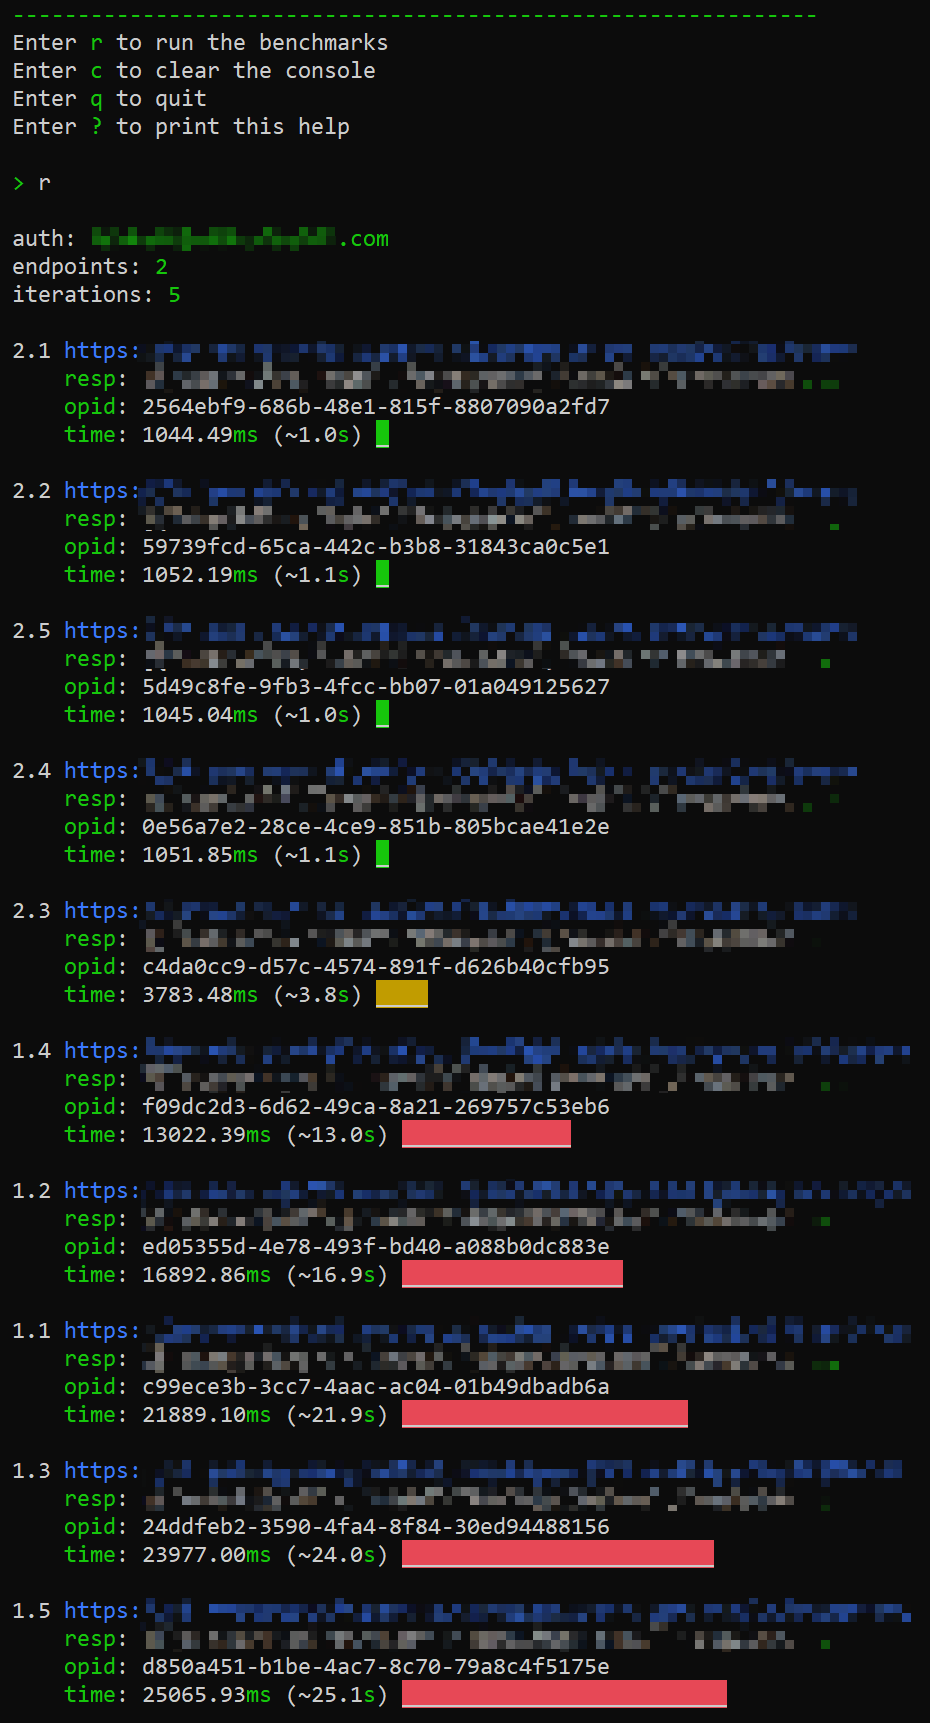
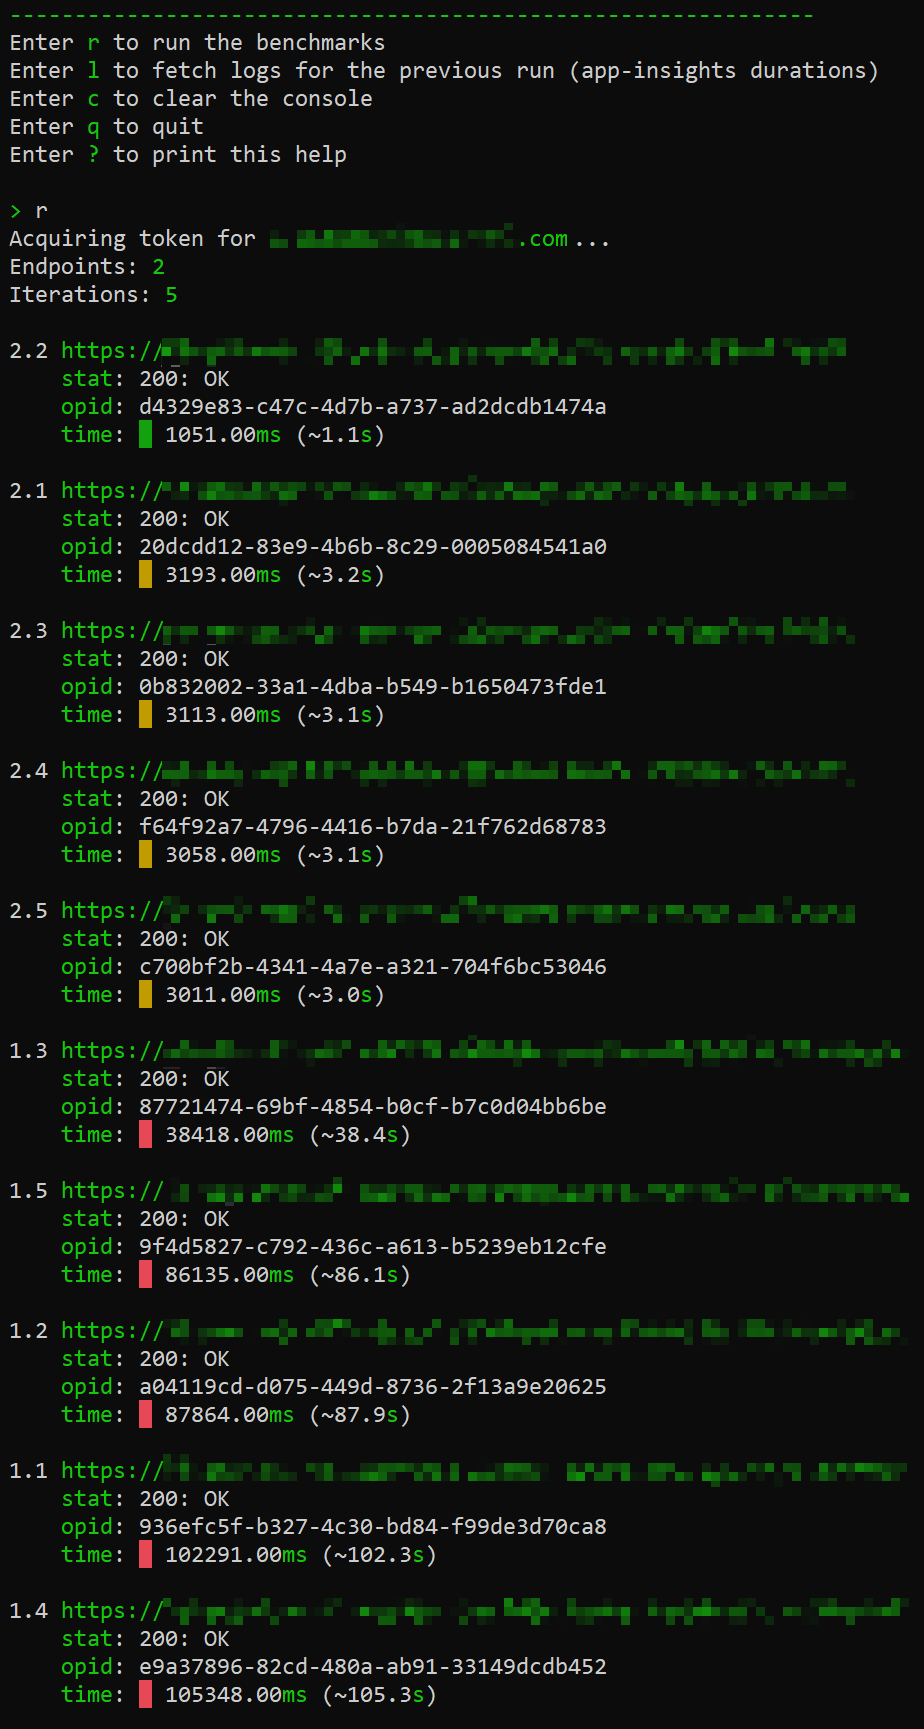
Tuple to typed-Record

diff --git a/Perfx/Services/PerfRunner.cs b/Perfx/Services/PerfRunner.cs
@@ -42,54 +42,42 @@
             this.jsonSerializer = jsonSerializer;
         }
 
-        public async Task<List<(string traceId, double duration)>> Execute()
+        public async Task<List<Record>> Execute()
         {
             ColorConsole.WriteLine("Endpoints: ", settings.Endpoints.Count().ToString().Green());
             ColorConsole.WriteLine("Iterations: ", settings.Iterations.ToString().Green(), "\n");
 
             var endpointTasks = settings.Endpoints.Select((ep, i) => Execute(ep, i + 1, settings.Iterations));
             var results = await Task.WhenAll(endpointTasks);
-            ////await foreach (var results in await tasks.WhenEach())
-            //foreach (var results in await Task.WhenAll(tasks))
-            //{
-            //    foreach (var result in results)
-            //    {
-            //        var bar = string.Empty.PadLeft((int)Math.Round(result.duration / 1000, MidpointRounding.AwayFromZero), ' ');
-            //        ColorConsole.WriteLine($"{result.index + 1}. ".Green(), result.endpoint, " (", result.traceId.Green(), ")", ": ".Green(), result.duration.ToString("F2", CultureInfo.InvariantCulture), " ms".Green(), " (~", (result.duration / 1000.00).ToString("F2", CultureInfo.InvariantCulture), " s".Green(), ") ", bar.OnGreen());
-            //    }
-            //}
-
-            var traceIds = results.SelectMany(e => e.Select(r => (r.traceId, r.duration))).ToList();
-            traceIds.SaveToFile();
-            return traceIds;
+            var records = results.SelectMany(e => e).ToList();
+            return records;
         }
 
-        private async Task<(int index, string endpoint, string traceId, double duration)[]> Execute(string endpoint, float topIndex, int interations)
+        private async Task<IEnumerable<Record>> Execute(string endpoint, float topIndex, int interations)
         {
             var result = await Task.WhenAll(Enumerable.Range(0, interations).Select(async i =>
             {
-                var traceId = Guid.NewGuid().ToString();
-                var response = await ProcessRequest(endpoint, traceId);
-                string result = response.status;
+                var record = new Record {id = float.Parse($"{topIndex}.{i + 1}"), traceId = Guid.NewGuid().ToString(), url = endpoint };
+                var response = await ProcessRequest(record);
                 await Lock.WaitAsync();
-                Log(endpoint, topIndex, i, traceId, response.duration, result);
+                Log(record);
                 Lock.Release();
-                return (i, endpoint, traceId, response.duration);
+                return record;
             }));
 
             return result;
         }
 
-        private void Log(string endpoint, float topIndex, int i, string traceId, double duration, string result)
+        private void Log(Record record)
         {
-            var id = $"{topIndex}.{i + 1}";
-            ColorConsole.WriteLine($"{id} ", endpoint.Green(), "\n",
-                "stat".PadLeft(id.Length + 5).Green(), $": {result}", "\n",
-                "opid".PadLeft(id.Length + 5).Green(), ": ", traceId, "\n",
-                "time".PadLeft(id.Length + 5).Green(), ": ", duration.GetColorToken(" "), " ", duration.ToString("F2", CultureInfo.InvariantCulture), "ms".Green(), " (~", (duration / 1000.00).ToString("F1", CultureInfo.InvariantCulture), "s".Green(), ") ", "\n");
+            var id = record.id.ToString();
+            ColorConsole.WriteLine($"{id} ", record.url.Green(), "\n",
+                "stat".PadLeft(id.Length + 5).Green(), $": {record.result}", "\n",
+                "opid".PadLeft(id.Length + 5).Green(), ": ", record.traceId, "\n",
+                "time".PadLeft(id.Length + 5).Green(), ": ", record.duration_ms.GetColorToken(" "), " ", record.GetDurationString(), "ms".Green(), " (~", record.GetDurationInSecString(), "s".Green(), ") ", "\n");
         }
 
-        public async Task LogAppInsights(List<(string traceId, double duration)> traceIds)
+        public async Task ExecuteAppInsights(List<Record> records)
         {
             if (!string.IsNullOrWhiteSpace(settings.AppInsightsAppId) && !string.IsNullOrWhiteSpace(settings.AppInsightsApiKey))
             {
@@ -100,8 +88,8 @@
                 do
                 {
                     i++;
-                    aiLogs = (await logDataService.GetLogs(traceIds.Select(t => t.traceId)))?.ToList();
-                    found = aiLogs?.Count >= traceIds.Count;
+                    aiLogs = (await logDataService.GetLogs(records.Select(t => t.traceId)))?.ToList();
+                    found = aiLogs?.Count >= records.Count;
                     ColorConsole.Write((aiLogs?.Count > 0 ? $"{aiLogs?.Count.ToString()}" : string.Empty), ".".Green());
                     await Task.Delay(1000);
                 }
@@ -109,8 +97,15 @@
 
                 if (aiLogs?.Count > 0)
                 {
+                    aiLogs.ForEach(ai =>
+                    {
+                        var record = records.SingleOrDefault(t => t.traceId.Equals(ai.operation_ParentId, StringComparison.OrdinalIgnoreCase));
+                        record.ai_duration_ms = ai.duration;
+                        record.ai_op_Id = ai.operation_Id;
+                        // TODO: Rest of the props
+                    });
                     ColorConsole.WriteLine();
-                    aiLogs.DrawTable(traceIds);
+                    records.DrawTable();
                 }
                 else
                 {
@@ -119,22 +114,20 @@
             }
         }
 
-        private async Task<(string status, double duration)> ProcessRequest(string endpoint, string traceId)
+        private async Task<Record> ProcessRequest(Record record)
         {
-            double elapsedTime;
-            var result = string.Empty;
             var token = this.settings.Token;
             this.client.DefaultRequestHeaders.Clear();
             this.client.DefaultRequestHeaders.Add(AuthHeader, Bearer + token);
-            this.client.DefaultRequestHeaders.Add(RequestId, traceId);
+            this.client.DefaultRequestHeaders.Add(RequestId, record.traceId);
             var taskWatch = Stopwatch.StartNew();
             try
             {
                 // See: https://docs.microsoft.com/en-us/windows/win32/sysinfo/acquiring-high-resolution-time-stamps
                 // Credit: https://josefottosson.se/you-are-probably-still-using-httpclient-wrong-and-it-is-destabilizing-your-software/
-                var response = await this.client.SendAsync(new HttpRequestMessage(HttpMethod.Get, endpoint), this.settings.ReadResponseHeadersOnly ? HttpCompletionOption.ResponseHeadersRead : HttpCompletionOption.ResponseContentRead);
-                elapsedTime = taskWatch.ElapsedMilliseconds;
-                result = $"{(int)response.StatusCode}: {response.ReasonPhrase}";
+                var response = await this.client.SendAsync(new HttpRequestMessage(HttpMethod.Get, record.url), this.settings.ReadResponseHeadersOnly ? HttpCompletionOption.ResponseHeadersRead : HttpCompletionOption.ResponseContentRead);
+                record.duration_ms = taskWatch.ElapsedMilliseconds;
+                record.result = $"{(int)response.StatusCode}: {response.ReasonPhrase}";
                 //using (var responseStream = await response.Content.ReadAsStreamAsync())
                 //{
                 //    using (var streamReader = new StreamReader(responseStream))
@@ -161,11 +154,11 @@
             }
             catch (Exception ex)
             {
-                elapsedTime = taskWatch.ElapsedMilliseconds;
+                record.duration_ms = taskWatch.ElapsedMilliseconds;
                 ColorConsole.WriteLine(ex.Message.White().OnRed());
             }
 
-            return (result, elapsedTime);
+            return record;
         }
 
         protected virtual void Dispose(bool disposing)

diff --git a/Perfx/Helpers/Utils.cs b/Perfx/Helpers/Utils.cs
@@ -19,6 +19,9 @@
     {
         private const string ResultsFileName = "Perfx.csv";
         private const int MaxBarLength = 100;
+        private const string VerticalChar = "│"; // "┃"
+        private const char HorizontalChar = '─'; // '━'
+        private const string BroderChar = "└"; // "┗"
 
         // Credits: https://devblogs.microsoft.com/pfxteam/processing-tasks-as-they-complete, https://stackoverflow.com/a/58194681
         public static Task<Task<T>>[] Interleaved<T>(this IEnumerable<Task<T>> tasks)
@@ -84,7 +87,7 @@
         public static ColorToken GetColorToken(this double duration, char padChar = '.', int max = MaxBarLength)
         {
             var sec = (int)Math.Round(duration / 1000);
-            var bar = string.Empty.PadLeft(sec > 1 ? (sec > max ? max : sec) : 1, padChar);
+            var bar = string.Empty.PadLeft(sec >= 1 ? (sec > max ? max : sec) : 1, padChar);
             return duration.GetColorToken(bar);
         }
 
@@ -112,7 +115,7 @@
             return coloredBar;
         }
 
-        public static void DrawTable(this List<LogRecord> aiLogs, List<(string traceId, double duration)> traceIds)
+        public static void DrawTable(this List<Record> records)
         {
             // Credit: https://stackoverflow.com/a/49032729
             // https://github.com/Athari/CsConsoleFormat/blob/master/Alba.CsConsoleFormat.Tests/Elements/Containers/GridTests.cs
@@ -139,14 +142,14 @@
                                         new Cell { Stroke = headerThickness, Color = ConsoleColor.White, Background = ConsoleColor.DarkGreen, Children = { " result " } },
                                         new Cell { Stroke = headerThickness, Color = ConsoleColor.White, Background = ConsoleColor.DarkGreen, Children = { " ai_duration " } },
                                         new Cell { Stroke = headerThickness, Color = ConsoleColor.DarkGreen, Background = ConsoleColor.White, Children = { " perfx_duration " } },
-                                        aiLogs.Select(log => new[]
+                                        records.Select(record => new[]
                                         {
-                                            new Cell { Stroke = rowThickness, TextWrap = TextWrap.NoWrap, TextAlign = TextAlign.Right, Children = { log.id } },
-                                            new Cell { Stroke = rowThickness, TextWrap = TextWrap.NoWrap, Children = { log.url } },
-                                            new Cell { Stroke = rowThickness, TextWrap = TextWrap.NoWrap, TextAlign = TextAlign.Center, Children = { log.operation_ParentId } },
-                                            new Cell { Stroke = rowThickness, TextWrap = TextWrap.NoWrap, TextAlign = TextAlign.Center, Children = { log.resultCode } },
-                                            new Cell { Stroke = rowThickness, Color = log.duration.GetColor(), TextWrap = TextWrap.NoWrap, TextAlign = TextAlign.Center, Children = { log.duration.ToString("F2") + "ms / " + $"{(log.duration / 1000.00).ToString("F1", CultureInfo.InvariantCulture)}s" } },
-                                            new Cell { Stroke = rowThickness, Color = traceIds.SingleOrDefault(t => t.traceId.Equals(log.operation_ParentId, StringComparison.OrdinalIgnoreCase)).duration.GetColor(), TextWrap = TextWrap.NoWrap, TextAlign = TextAlign.Center, Children = { traceIds.SingleOrDefault(t => t.traceId.Equals(log.operation_ParentId, StringComparison.OrdinalIgnoreCase)).duration.ToString("F2") + "ms / " + $"{(traceIds.SingleOrDefault(t => t.traceId.Equals(log.operation_ParentId, StringComparison.OrdinalIgnoreCase)).duration / 1000.00).ToString("F1", CultureInfo.InvariantCulture)}s" } }
+                                            new Cell { Stroke = rowThickness, TextWrap = TextWrap.NoWrap, TextAlign = TextAlign.Right, Children = { record.id } },
+                                            new Cell { Stroke = rowThickness, TextWrap = TextWrap.NoWrap, Children = { record.url } },
+                                            new Cell { Stroke = rowThickness, TextWrap = TextWrap.NoWrap, TextAlign = TextAlign.Center, Children = { record.traceId } },
+                                            new Cell { Stroke = rowThickness, TextWrap = TextWrap.NoWrap, TextAlign = TextAlign.Center, Children = { record.result } },
+                                            new Cell { Stroke = rowThickness, Color = record.ai_duration_ms.GetColor(), TextWrap = TextWrap.NoWrap, TextAlign = TextAlign.Center, Children = { record.GetDurationString(true, true) + " / " + record.GetDurationInSecString(true, true) } },
+                                            new Cell { Stroke = rowThickness, Color = record.duration_ms.GetColor(), TextWrap = TextWrap.NoWrap, TextAlign = TextAlign.Center, Children = { record.GetDurationString(suffixUnit: true) + " / " + record.GetDurationInSecString(suffixUnit: true) } }
                                         })
                             }
                         }
@@ -155,32 +158,34 @@
             ConsoleRenderer.RenderDocument(doc);
         }
 
-        public static void DrawChart(this List<(string traceId, double duration)> traceIds)
+        public static void DrawChart(this List<Record> records)
         {
-            var maxIdLength = traceIds.Max(x => x.traceId.Length);
-            var maxDurationLength = (int)Math.Round(traceIds.Max(x => x.duration / 1000));
-            foreach (var item in traceIds)
+            var maxIdLength = records.Max(x => $"{x.id.ToString()} {x.url}".Length);
+            var maxDurationLength = records.Max(x => x.GetDurationInSec());
+            foreach (var record in records)
             {
-                ColorConsole.WriteLine("|".PadLeft(maxIdLength + 2).Green());
-                ColorConsole.Write(item.traceId.PadLeft(maxIdLength));
+                ColorConsole.WriteLine(VerticalChar.PadLeft(maxIdLength + 2).DarkCyan()); // , record.traceId
+                ColorConsole.Write(record.id.ToString().Green(), record.url.PadLeft(maxIdLength - record.id.ToString().Length));
                 ColorConsole.Write(" ");
-                ColorConsole.Write("|".Green(), item.duration.GetColorToken(' '));
+                ColorConsole.Write(VerticalChar.DarkCyan(), record.duration_ms.GetColorToken(' '));
                 ColorConsole.Write(" ");
-                ColorConsole.WriteLine(Math.Round(item.duration / 1000).ToString(), "s".Green());
+                ColorConsole.WriteLine(record.GetDurationInSecString(), "s".Green());
             }
 
-            // ColorConsole.WriteLine("|".PadLeft(maxIdLength + 2).Green());
-            ColorConsole.Write(string.Empty.PadLeft(maxIdLength + 1), string.Empty.PadLeft(maxDurationLength > MaxBarLength ? MaxBarLength + 1 : maxDurationLength, '-'), "[".Green(), "100", "]".Green()); // '̅'
+            ColorConsole.Write(string.Empty.PadLeft(maxIdLength + 1),
+                BroderChar.DarkCyan(),
+                string.Empty.PadLeft(maxDurationLength > MaxBarLength ? MaxBarLength + 2 : maxDurationLength, HorizontalChar).DarkCyan(),
+                "[", "100".DarkCyan(), "]");
         }
 
-        public static void SaveToFile(this IEnumerable<(string traceId, double duration)> items, string fileName = ResultsFileName)
+        public static void SaveToFile(this IEnumerable<Record> items, string fileName = ResultsFileName)
         {
             var file = fileName.GetFullPath();
             using (var reader = File.CreateText(file))
             {
                 using (var csvWriter = new CsvWriter(reader, new CsvConfiguration(CultureInfo.InvariantCulture)))
                 {
-                    csvWriter.WriteRecords(items.Select(r => new { r.traceId, r.duration }));
+                    csvWriter.WriteRecords(items);
                 }
             }
         }

diff --git a/Perfx/Worker.cs b/Perfx/Worker.cs
@@ -28,11 +28,7 @@
         {
             var tenant = string.Empty;
             PrintHelp();
-            var results = Utils.ReadResults<dynamic>()?.Select(x =>
-            {
-                (string traceId, double duration) r = (x.traceId, double.Parse(x.duration));
-                return r;
-            })?.ToList();
+            var records = Utils.ReadResults<Record>()?.ToList();
             while (!stopToken.IsCancellationRequested)
             {
                 try
@@ -59,20 +55,22 @@
                     }
                     else if (key.StartsWith("l", StringComparison.OrdinalIgnoreCase) || key.StartsWith("a", StringComparison.OrdinalIgnoreCase))
                     {
-                        if (results?.Count > 0)
+                        if (records?.Count > 0)
                         {
                             using (var scope = serviceScopeFactory.CreateScope())
                             {
                                 var perf = scope.ServiceProvider.GetRequiredService<PerfRunner>();
-                                await perf.LogAppInsights(results);
+                                await perf.ExecuteAppInsights(records);
+                                records.SaveToFile();
+                                records.DrawChart();
                             }
                         }
                     }
                     else if (key.StartsWith("d", StringComparison.OrdinalIgnoreCase) || key.StartsWith("b", StringComparison.OrdinalIgnoreCase))
                     {
-                        if (results?.Count > 0)
+                        if (records?.Count > 0)
                         {
-                            results.DrawChart();
+                            records.DrawChart();
                         }
                     }
                     else if (key.StartsWith("r", StringComparison.OrdinalIgnoreCase))
@@ -118,17 +116,18 @@
                         using (var scope = serviceScopeFactory.CreateScope())
                         {
                             var perf = scope.ServiceProvider.GetRequiredService<PerfRunner>();
-                            results = await perf.Execute();
-                            ColorConsole.Write("\n> ".Green(), "Fetch ", "durations".Green(), " from App-Insights?", " (Y/N) ".Green());
+                            records = await perf.Execute();
+                            ColorConsole.Write("> ".Green(), "Fetch ", "durations".Green(), " from App-Insights?", " (Y/N) ".Green());
                             var result = Console.ReadKey();
                             ColorConsole.WriteLine();
                             if (result.Key == ConsoleKey.Y)
                             {
                                 ColorConsole.WriteLine();
-                                await perf.LogAppInsights(results);
+                                await perf.ExecuteAppInsights(records);
                             }
 
-                            results.DrawChart();
+                            records.SaveToFile();
+                            records.DrawChart();
                         }
                     }
                     else // (string.IsNullOrWhiteSpace(key))

diff --git a/Perfx/Models/Record.cs b/Perfx/Models/Record.cs
@@ -1,0 +1,32 @@
+namespace Perfx
+{
+    using System;
+    using System.Collections.Generic;
+
+    public class Record
+    {
+        public float id { get; set; }
+        public string url { get; set; }
+        public double duration_ms { get; set; }
+        public string traceId { get; set; }
+        public string result { get; set; }
+        public double ai_duration_ms { get; set; }
+        public string ai_op_Id { get; set; }
+
+        public int GetDurationInSec(bool forAppInsights = false)
+        {
+            var sec = (int)Math.Round((forAppInsights ? this.ai_duration_ms : this.duration_ms) / 1000);
+            return sec >= 1 ? sec : 1;
+        }
+
+        public string GetDurationString(bool forAppInsights = false, bool suffixUnit = false) => (forAppInsights ? this.ai_duration_ms : this.duration_ms).ToString("F2") + (suffixUnit ? "ms" : string.Empty);
+
+        public string GetDurationInSecString(bool forAppInsights = false, bool suffixUnit = false) => ((forAppInsights ? this.ai_duration_ms : this.duration_ms) / 1000).ToString("F1") + (suffixUnit ? "s" : string.Empty);
+    }
+
+    public class Run
+    {
+        public DateTime timestamp { get; set; }
+        public List<Record> Records { get; set; }
+    }
+}

diff --git a/README.md b/README.md
@@ -6,7 +6,10 @@ Azure API Performance benchmarking tool
 #### USAGE
 `perfx`
 
+> Results are saved to your `Documents` folder with the name: **`Perfx.csv`**
+
   ![Screenshot](Screenshot.png)
+  ![Screenshot2](Screenshot2.png)
 
 - Enter **`r`** to **run** the benchmarks
 - Enter **`l`** to fetch **logs** for the previous run (app-insights `durations`) 
